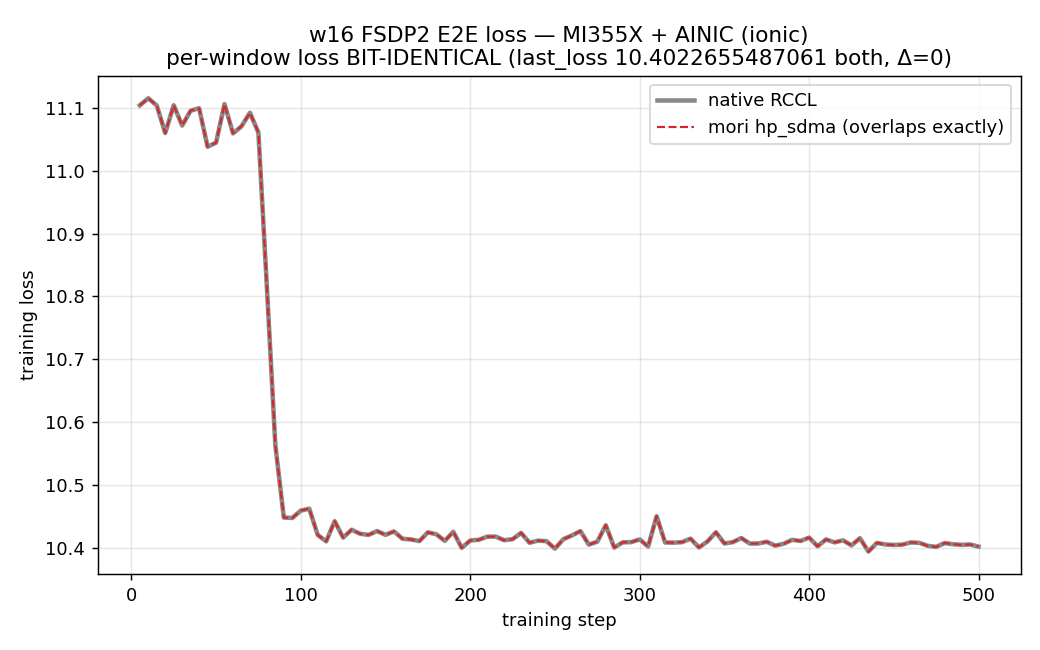
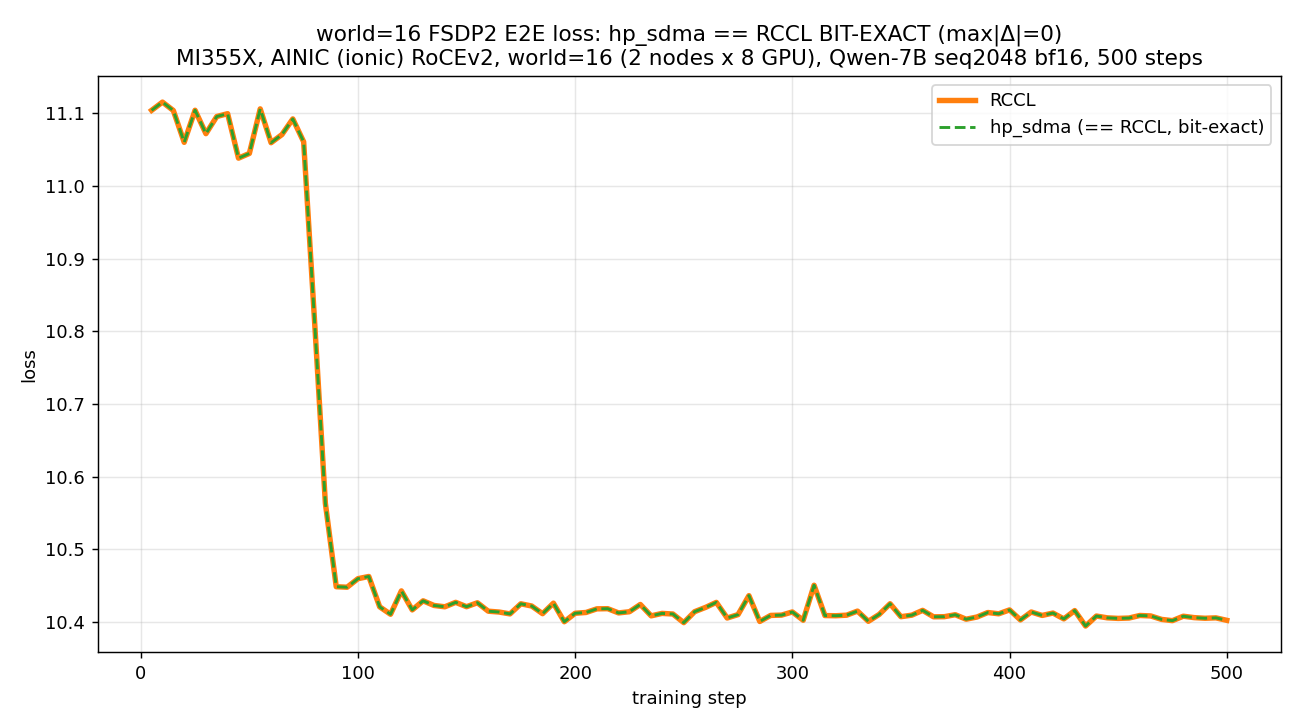
style(bench): render MI355X E2E figures in the MI300X figure style
Align the MI355X + AINIC w16 E2E throughput/loss figures to the MI300X
style: wide canvas + full box, RCCL = orange / mori hp_sdma = green,
steady-state (warm-up-dropped) legend values, and the matching
"world=16 FSDP2 E2E ..." titles. Loss figure overlays hp_sdma as a
dashed green curve to show the bit-exact match with RCCL.

diff --git a/examples/fsdp_sdma/bench/results/mi355x_ainic/raw/plot_mi355x_ainic.py b/examples/fsdp_sdma/bench/results/mi355x_ainic/raw/plot_mi355x_ainic.py
@@ -68,43 +68,66 @@ def parse(path):
 
 ns, ntf, nloss, navg, nlast = parse(os.path.join(RAW, "e2e_w16_RCCL.log"))
 hs, htf, hloss, havg, hlast = parse(os.path.join(RAW, "e2e_w16_hp_sdma.log"))
-ratio = havg / navg
+
+# Match the MI300X figure style (see results/mi300x_mlx5/): wide canvas, full box,
+# RCCL = orange / mori hp_sdma = green, steady-state legend, no avg guide-lines.
+HW = (
+    "MI355X, AINIC (ionic) RoCEv2, world=16 (2 nodes x 8 GPU), "
+    "Qwen-7B seq2048 bf16, 500 steps"
+)
+
+
+def _steady(series):
+    # drop the first 1/5 warm-up windows, like the MI300X figures
+    k = len(series) // 5
+    tail = series[k:] or series
+    return sum(tail) / len(tail)
+
+
+n_steady = _steady(ntf)
+h_steady = _steady(htf)
+ratio = h_steady / n_steady
 
 # ---- Figure 1: throughput ----
-fig, ax = plt.subplots(figsize=(8, 5))
-ax.plot(ns, ntf, "-", color="#888888", lw=1.6, label=f"native RCCL (avg {navg:.1f})")
-ax.plot(hs, htf, "-", color="#1f77b4", lw=1.6, label=f"mori hp_sdma (avg {havg:.1f})")
-ax.axhline(navg, color="#888888", ls="--", lw=0.8)
-ax.axhline(havg, color="#1f77b4", ls="--", lw=0.8)
+fig, ax = plt.subplots(figsize=(10, 5.6))
+ax.plot(ns, ntf, "-", color="tab:orange", lw=1.6, label=f"RCCL  (steady {n_steady:.0f})")
+ax.plot(
+    hs,
+    htf,
+    "-",
+    color="tab:green",
+    lw=1.6,
+    label=f"hp_sdma  (steady {h_steady:.0f}, {ratio:.2f}x)",
+)
 ax.set_xlabel("training step")
 ax.set_ylabel("TFLOPS / GPU")
-ax.set_title(
-    "w16 FSDP2 E2E throughput — MI355X + AINIC (ionic)\n"
-    f"hp_sdma {havg:.1f} = {ratio:.3f}x native "
-    "(Qwen-7B, seq2048, bf16, 500 steps, bit-exact)"
-)
-ax.legend()
+ax.set_title("world=16 FSDP2 E2E throughput vs RCCL\n" + HW)
+ax.legend(loc="lower right")
 ax.grid(True, alpha=0.3)
 fig.tight_layout()
 fig.savefig(os.path.join(HERE, "e2e_w16_tflops.png"), dpi=130)
 print(
-    f"wrote e2e_w16_tflops.png  (native {navg:.2f}, hp_sdma {havg:.2f}, {ratio:.3f}x)"
+    f"wrote e2e_w16_tflops.png  (RCCL steady {n_steady:.1f}, "
+    f"hp_sdma steady {h_steady:.1f}, {ratio:.3f}x)"
 )
 
 # ---- Figure 2: loss curve (bit-exact overlap) ----
-fig, ax = plt.subplots(figsize=(8, 5))
-ax.plot(ns, nloss, "-", color="#888888", lw=2.5, label="native RCCL")
+ndiff = sum(1 for a, b in zip(nloss, hloss) if a != b)
+fig, ax = plt.subplots(figsize=(10, 5.6))
+ax.plot(ns, nloss, "-", color="tab:orange", lw=3.0, label="RCCL")
 ax.plot(
-    hs, hloss, "--", color="#d62728", lw=1.2, label="mori hp_sdma (overlaps exactly)"
+    hs, hloss, "--", color="tab:green", lw=1.6, label="hp_sdma (== RCCL, bit-exact)"
 )
 ax.set_xlabel("training step")
-ax.set_ylabel("training loss")
+ax.set_ylabel("loss")
 ax.set_title(
-    "w16 FSDP2 E2E loss — MI355X + AINIC (ionic)\n"
-    f"per-window loss BIT-IDENTICAL (last_loss {nlast:.15g} both, \u0394=0)"
+    "world=16 FSDP2 E2E loss: hp_sdma == RCCL BIT-EXACT (max|\u0394|=0)\n" + HW
 )
-ax.legend()
+ax.legend(loc="upper right")
 ax.grid(True, alpha=0.3)
 fig.tight_layout()
 fig.savefig(os.path.join(HERE, "e2e_w16_loss.png"), dpi=130)
-print(f"wrote e2e_w16_loss.png  (last_loss native {nlast!r} / hp_sdma {hlast!r})")
+print(
+    f"wrote e2e_w16_loss.png  (last_loss native {nlast!r} / hp_sdma {hlast!r}, "
+    f"{ndiff} windows differ)"
+)